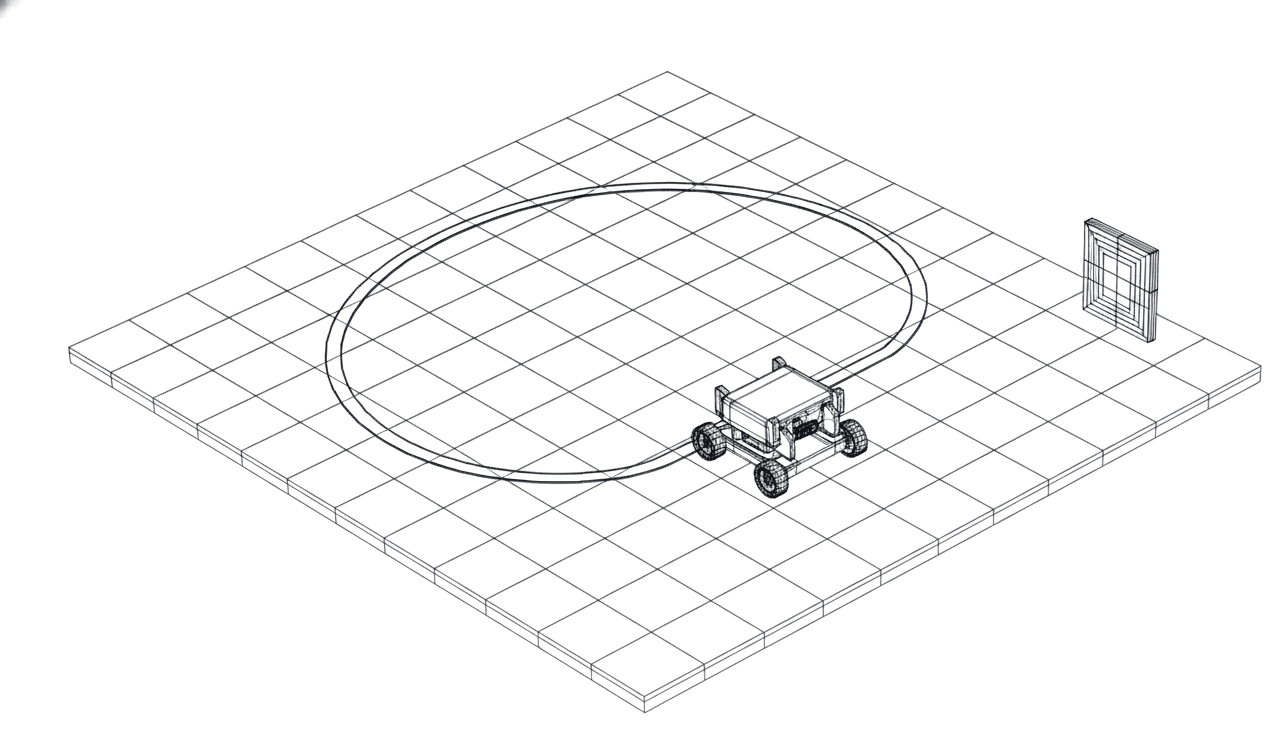
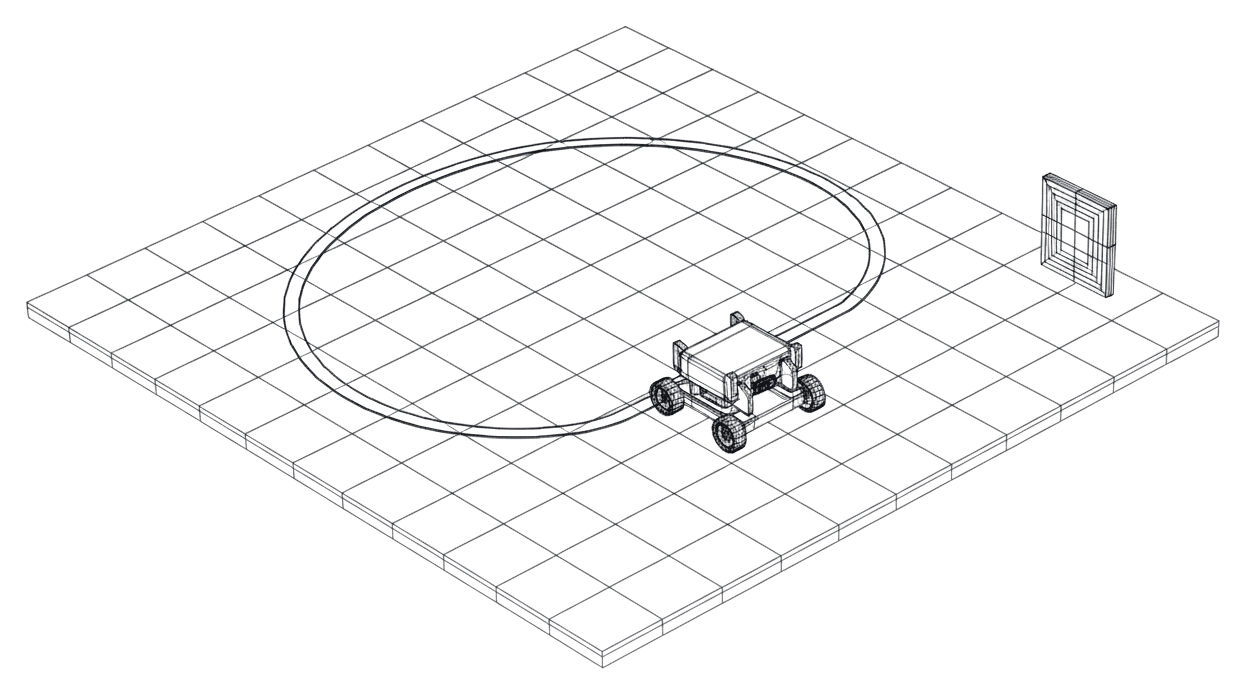
feat: glass wipe on tab change, fit Home/Outreach to the viewport, fix card framing
Card art was off-centre
- The trim measured the bounding box of ANY ink, and both generated renders
  carried stray specks in a corner — so the box was inflated and the real
  subject sat off to one side inside its frame.
- Added connected-component despeckling. First pass used 2% of the largest blob
  and was far too blunt: an exploded drawing is legitimately many small pieces,
  and it deleted the controller's buttons and triggers (937px -> 565px).
  Measured the actual distribution instead — every real element is >=365px and
  there are ~176 specks under 200px — so the floor is an absolute 200px.

GlassSurface tab transition
- A refracting glass pane now sweeps across on every tab change, in the
  direction you moved along the tab bar, and the view slides to match.

Home and Outreach fit the viewport
- New .fitview utility. The first attempt subtracted only the nav and left a
  CONSTANT ~115px overflow at every viewport height — the giveaway that fixed
  chrome was unaccounted for, not that the content was too tall. The sticky nav,
  the footer, and (on Home) the partner strip all sit in flow outside the
  section, so --fit-chrome now subtracts all of them.
- The real blocker was ParticleText: `.particle-text` sets height:100% AND
  min-height:240px. Overriding height alone did nothing, which pinned the two
  wordmark lines at 240px each — 462px of h1. Killing the min-height took it
  to 126px.
[…]

diff --git a/src/sections/Hero.css b/src/sections/Hero.css
@@ -1,4 +1,8 @@
-.hero { padding-top: clamp(2.5rem, 6vh, 5rem); }
+/* Home also carries the partner strip below the hero. */
+.hero { padding-top: 0; --fit-chrome: 232px; }
+/* Everything on Home is sized off the viewport so the page needs no scroll:
+   the wordmark, the plate and the stat rail each take a share of the height. */
+.hero .hero__in { padding-bottom: clamp(0.75rem, 1.6vh, 1.5rem); gap: clamp(0.5rem, 1.2vh, 1.15rem); }
 
 .hero__in {
   display: grid; gap: 1.15rem; justify-items: center; text-align: center;
@@ -11,25 +15,37 @@
 }
 /* Each ParticleText canvas centres its glyphs in a taller box, so the two
    lines sit far apart at their natural height. Pull them together. */
-.hero__h1 { max-width: none; width: 100%; display: grid; gap: 0; margin-block: 0.25rem; }
-.hero__h1 .hero__particles + .hero__particles { margin-top: -1.6rem; }
-.hero__particles {
+.hero__h1 { max-width: none; width: 100%; display: grid; gap: 0; margin-block: 0; }
+/* no negative pull now that the type is sized to its canvas */
+.hero__h1 .hero__particles + .hero__particles { margin-top: 0; }
+/* ParticleText's own `.particle-text` rule sets the height and is loaded after
+   this file, so an equal-specificity selector lost. Scope it under .hero__h1. */
+/* ParticleText sets `height: 100%` AND `min-height: 240px`. Overriding height
+   alone did nothing — the min-height pinned both lines at 240px each (462px
+   total for the h1). The min-height is the rule that actually had to go. */
+.hero__h1 .hero__particles {
   display: block; width: 100%;
-  height: clamp(3rem, 7vw, 6.25rem);
+  height: clamp(2.25rem, min(6vw, 8vh), 4.75rem);
+  min-height: 0;
 }
-.hero__particles canvas { width: 100% !important; height: 100% !important; }
+.hero__particles > *,
+.hero__particles canvas {
+  width: 100% !important;
+  height: 100% !important;
+  display: block;
+}
 .hero__line { display: block; }
 
-.hero__meta { display: grid; justify-items: center; gap: 1.5rem; margin-top: 0.35rem; }
+.hero__meta { display: grid; justify-items: center; gap: clamp(0.75rem, 1.8vh, 1.5rem); margin-top: 0.25rem; }
 
 .hero__ctas { display: flex; flex-wrap: wrap; gap: 0.7rem; justify-content: center; }
 
 /* ── the plate: image-first, full width, generous radius ─────────────── */
 /* capped near the source's native 1100px so it is never upscaled on screen */
-.hero__plate { position: relative; border-radius: var(--r-xl); max-width: 1120px; margin-inline: auto; }
+.hero__plate { position: relative; border-radius: var(--r-xl); max-width: min(1120px, 25vh * 2.17); margin-inline: auto; }
 .hero__ripple, .hero__plate canvas { width: 100%; aspect-ratio: 1100 / 508; display: block; }
 .hero__plate img {
-  width: 100%; aspect-ratio: 1100 / 508; object-fit: cover; object-position: center 42%;
+  width: 100%; aspect-ratio: 1100 / 508; max-height: 42vh; object-fit: cover; object-position: center 42%;
   transition: transform 1200ms var(--ease);
 }
 .hero__plate:hover img { transform: scale(1.02); }
@@ -45,16 +61,20 @@
 
 /* ── stats ───────────────────────────────────────────────────────────── */
 .hero__stats {
+  margin-top: clamp(0.6rem, 1.3vh, 1.4rem);
   display: grid; grid-template-columns: repeat(auto-fit, minmax(min(100%, 10rem), 1fr));
   gap: 1px; margin-top: clamp(1.5rem, 3vw, 2.5rem);
   background: var(--rule);
   border-radius: var(--r-md); overflow: hidden;
   border: 1px solid var(--rule);
 }
-.hero__stat { background: var(--card); padding: 1.15rem 1.35rem; display: grid; gap: 0.3rem; }
+.hero__stat { background: var(--card); padding: clamp(0.55rem, 1.1vh, 0.95rem) 1.35rem; display: grid; gap: 0.2rem; }
 .hero__stat dd {
   font-family: var(--display); font-variation-settings: 'wght' 650;
-  font-size: clamp(1.5rem, 2.4vw, 2rem); color: var(--ink); line-height: 1;
+  font-size: clamp(1.25rem, min(2.4vw, 3vh), 2rem); color: var(--ink); line-height: 1;
 }
 .hero__stat--sm { font-size: clamp(1rem, 1.4vw, 1.15rem) !important; line-height: 1.2 !important; }
 .tab { font-variant-numeric: tabular-nums; }
+
+/* wider measure keeps the lede to two lines, which the viewport budget needs */
+.hero__meta .lede { max-width: 74ch; font-size: clamp(0.95rem, 0.9rem + 0.3vw, 1.0625rem); }

diff --git a/src/App.tsx b/src/App.tsx
@@ -1,10 +1,10 @@
 import { Suspense, lazy, useCallback, useEffect, useState } from 'react';
 import SwarmCursor from '@/components/reactbits/SwarmCursor';
 import Backdrop from '@/components/Backdrop';
+import GlassSurface from '@/components/reactbits/GlassSurface';
 import Nav, { TABS, type TabId } from '@/sections/Nav';
 import Hero from '@/sections/Hero';
 import PartnerStrip from '@/sections/PartnerStrip';
-import Marquee from '@/sections/Marquee';
 import Team from '@/sections/Team';
 import Robot from '@/sections/Robot';
 import Bios from '@/sections/Bios';
@@ -21,6 +21,8 @@ export default function App() {
   const [admin, setAdmin] = useState(false);
   const [tab, setTab] = useState<TabId>('home');
   const [phase, setPhase] = useState<'in' | 'out'>('in');
+  const [dir, setDir] = useState<1 | -1>(1);
+  const [wipe, setWipe] = useState(false);
   /* Heavy pointer effects are desktop-only: a swarm following a finger is
      meaningless on touch and costs a frame budget phones do not have. */
   const [rich, setRich] = useState(false);
@@ -47,6 +49,11 @@ export default function App() {
 
   const go = useCallback((next: TabId) => {
     if (next === tab) { window.scrollTo({ top: 0, behavior: 'smooth' }); return; }
+    const from = TABS.findIndex(t => t.id === tab);
+    const to = TABS.findIndex(t => t.id === next);
+    setDir(to > from ? 1 : -1);
+    setWipe(true);
+    window.setTimeout(() => setWipe(false), 620);
     setPhase('out');
     window.setTimeout(() => {
       setTab(next);
@@ -77,8 +84,22 @@ export default function App() {
       <a className="skip" href="#main">Skip to content</a>
       <Nav tab={tab} onTab={go} onAdmin={() => setAdmin(true)} />
 
-      <main id="main" className={`view view--${phase}`} key={tab}>
-        {tab === 'home' && <><Hero onTab={go} /><PartnerStrip /><Marquee /></>}
+      {/* React Bits GlassSurface as a real refracting wipe across the tab
+          change — it sweeps the direction you moved along the tab bar. */}
+      {wipe && (
+        <div className={`wipe wipe--${dir > 0 ? 'fwd' : 'back'}`} aria-hidden="true">
+          <GlassSurface
+            width="46%" height="100%" borderRadius={0}
+            blur={12} displace={1.6} distortionScale={-190}
+            redOffset={3} greenOffset={11} blueOffset={19}
+            brightness={62} opacity={0.85} backgroundOpacity={0.05} saturation={1.5}
+            className="wipe__pane"
+          />
+        </div>
+      )}
+
+      <main id="main" className={`view view--${phase} view--${dir > 0 ? 'fwd' : 'back'}`} key={tab}>
+        {tab === 'home' && <><Hero onTab={go} /><PartnerStrip /></>}
         {tab === 'team' && <Team />}
         {tab === 'robot' && <Robot />}
         {tab === 'roster' && <Bios />}

diff --git a/src/styles/tokens.css b/src/styles/tokens.css
@@ -223,3 +223,46 @@ button { font: inherit; color: inherit; background: none; border: 0; cursor: poi
 }
 .swarm-layer > * { width: 100%; height: 100%; }
 .swarm-layer canvas { pointer-events: none !important; }
+
+/* =========================================================
+   Tab change — a GlassSurface pane sweeps across, and the
+   view slides the direction you moved along the tab bar.
+   ========================================================= */
+.wipe {
+  position: fixed; inset: 0; z-index: 70;
+  pointer-events: none; overflow: hidden;
+}
+.wipe__pane { position: absolute; top: 0; height: 100%; }
+.wipe--fwd  .wipe__pane { animation: wipe-fwd 620ms cubic-bezier(0.65, 0, 0.35, 1) both; }
+.wipe--back .wipe__pane { animation: wipe-back 620ms cubic-bezier(0.65, 0, 0.35, 1) both; }
+@keyframes wipe-fwd  { from { left: -50%; } to { left: 105%; } }
+@keyframes wipe-back { from { left: 105%; } to { left: -50%; } }
+
+.view--out.view--fwd  { transform: translate3d(-3%, 0, 0); }
+.view--out.view--back { transform: translate3d(3%, 0, 0); }
+.view--in.view--fwd,
+.view--in.view--back { animation: view-slide 460ms var(--ease) both; }
+@keyframes view-slide { from { opacity: 0; transform: translate3d(var(--slide-from, 2%), 0, 0); } }
+.view--in.view--back { --slide-from: -2%; }
+
+@media (prefers-reduced-motion: reduce) {
+  .wipe { display: none; }
+  .view--in.view--fwd, .view--in.view--back { animation: none; }
+  .view--out.view--fwd, .view--out.view--back { transform: none; }
+}
+
+/* =========================================================
+   Fit-to-viewport tabs (Home, Outreach) — no scrolling needed
+   ========================================================= */
+/* --fit-chrome is everything that sits in flow OUTSIDE this section and still
+   consumes viewport: the sticky nav, the footer, and on Home the partner strip.
+   Subtracting only the nav left a constant ~115px overflow at every height. */
+.fitview {
+  --fit-chrome: 172px;
+  min-height: calc(100svh - var(--fit-chrome));
+  display: grid; align-content: center;
+  padding-block: clamp(5.25rem, 6.5vw, 6rem) clamp(1rem, 2vw, 1.75rem);
+}
+@media (max-height: 720px), (max-width: 820px) {
+  .fitview { min-height: 0; align-content: start; }
+}

diff --git a/src/sections/Outreach.css b/src/sections/Outreach.css
@@ -1,13 +1,15 @@
 /* Capped: at full container width the 1000x340 viewBox renders ~620px tall
    and pushes the readout off the fold. */
 .chart {
-  max-width: 68rem;
+  max-width: 62rem;
+  margin-inline: auto;
+  width: 100%;
   border: 1px solid var(--glass-edge);
   border-radius: var(--r-lg);
   background: var(--glass);
   backdrop-filter: blur(18px);
   box-shadow: var(--lift-2);
-  padding: 1.5rem clamp(1.15rem, 2.4vw, 2rem) 1.75rem;
+  padding: clamp(0.9rem, 1.8vh, 1.5rem) clamp(1.15rem, 2.4vw, 2rem) clamp(1rem, 2vh, 1.75rem);
 }
 .chart__cap {
   display: flex; align-items: center; justify-content: space-between;
@@ -20,7 +22,11 @@
 }
 .chart__toggle:hover { color: var(--accent); border-color: var(--accent); }
 
-.chart__plot svg { width: 100%; height: auto; overflow: visible; display: block; }
+.chart__plot svg {
+  width: 100%; height: auto; display: block; overflow: visible;
+  /* cap against the viewport so the whole section fits without scrolling */
+  max-height: clamp(8rem, 21vh, 14rem);
+}
 .chart__plot { padding-block: 0.5rem; }
 .chart__xlab {
   font-family: var(--mono); font-size: 10px; letter-spacing: 0.06em;
@@ -92,3 +98,10 @@
   .chart__area, .chart__mile { opacity: 1; transform: none; }
   .chart__plot.is-drawn * { animation: none !important; }
 }
+
+/* the section owns its vertical rhythm via .fitview */
+.band.fitview .sec-head { margin-bottom: clamp(0.75rem, 1.6vh, 1.4rem); gap: 0.6rem; }
+.band.fitview .outreach__stat { margin-top: clamp(0.5rem, 1.2vh, 1rem); }
+
+/* wider measure = fewer lines = the section fits the viewport */
+.outreach__lede { max-width: 78ch; }

diff --git a/src/sections/Hero.tsx b/src/sections/Hero.tsx
@@ -8,7 +8,7 @@ import './Hero.css';
 
 export default function Hero({ onTab }: { onTab: (t: 'robot' | 'contact') => void }) {
   return (
-    <header className="hero" id="top">
+    <header className="hero fitview" id="top">
       <div className="wrap hero__in">
         <p className="mono hero__eyebrow">
           <span className="hero__dot" aria-hidden="true" />
@@ -23,7 +23,7 @@ export default function Hero({ onTab }: { onTab: (t: 'robot' | 'contact') => voi
             text="SHARP FACE"
             fontFamily="Archivo, sans-serif"
             fontWeight={700}
-            fontSize={112}
+            fontSize="clamp(1.6rem, min(4.4vw, 5.6vh), 3.4rem)"
             color="#f2f4f7"
             highlightColor="#4fe0d8"
             particleSize={1.5}
@@ -41,7 +41,7 @@ export default function Hero({ onTab }: { onTab: (t: 'robot' | 'contact') => voi
             text="ROBOTICS"
             fontFamily="Archivo, sans-serif"
             fontWeight={700}
-            fontSize={112}
+            fontSize="clamp(1.6rem, min(4.4vw, 5.6vh), 3.4rem)"
             color="#4fe0d8"
             highlightColor="#a9f5f0"
             particleSize={1.5}

diff --git a/src/sections/Outreach.tsx b/src/sections/Outreach.tsx
@@ -56,12 +56,12 @@ export default function Outreach() {
   const cur = active === null ? null : outreach[active];
 
   return (
-    <section className="band" id="outreach">
+    <section className="band fitview" id="outreach">
       <div className="wrap">
         <header className="sec-head">
           <div className="sec-index"><b>05</b><span>Outreach</span></div>
           <h2 className="d2">Where the season actually goes</h2>
-          <p className="lede">
+          <p className="lede outreach__lede">
             A competition season is not one weekend. This is the rhythm of our outreach across
             a year — recruiting, build, league play, then the community work that carries into summer.
           </p>

diff --git a/src/sections/PartnerStrip.css b/src/sections/PartnerStrip.css
@@ -3,7 +3,7 @@
   background: var(--glass);
   backdrop-filter: blur(14px);
 }
-.strip__in { display: flex; align-items: center; gap: 2rem; padding-block: 1.35rem; }
+.strip__in { display: flex; align-items: center; gap: 2rem; padding-block: clamp(0.6rem, 1.3vh, 1.2rem); }
 .strip__label { flex: none; color: var(--ink-4); }
 
 .strip__mask {

diff --git a/src/sections/Sponsors.css b/src/sections/Sponsors.css
@@ -72,6 +72,7 @@
 .sp-loop img { background: #fff; padding: 5px 8px; border-radius: 1px; }
 
 .become {
+  margin-top: clamp(2.5rem, 5vw, 4.5rem);
   display: flex; flex-wrap: wrap; align-items: center; justify-content: space-between;
   gap: 1.75rem;
   padding: clamp(1.75rem, 4vw, 2.75rem);

diff --git a/scripts/ingest-cad.py b/scripts/ingest-cad.py
@@ -74,6 +74,46 @@ for name in NAMES:
                     a = min(255, int(((lum - floor) / span) * 255 * 1.35))
                     op[x, y] = (*tint, a)
         mask = out.split()[3].point(lambda v: 255 if v > 48 else 0)
+
+        # Despeckle before measuring. A single stray dot in a corner (the
+        # generated renders both had one) inflates the bounding box and shoves
+        # the real subject off-centre inside its frame. Keep only blobs that are
+        # a meaningful fraction of the largest one.
+        mw, mh = mask.size
+        mp = mask.load()
+        seen = bytearray(mw * mh)
+        blobs = []
+        for sy in range(0, mh):
+            for sx in range(0, mw):
+                if mp[sx, sy] == 0 or seen[sy * mw + sx]:
+                    continue
+                stack, cells = [(sx, sy)], []
+                seen[sy * mw + sx] = 1
+                while stack:
+                    cx, cy = stack.pop()
+                    cells.append((cx, cy))
+                    for nx, ny in ((cx+1,cy),(cx-1,cy),(cx,cy+1),(cx,cy-1)):
+                        if 0 <= nx < mw and 0 <= ny < mh and not seen[ny*mw+nx] and mp[nx,ny]:
+                            seen[ny*mw+nx] = 1
+                            stack.append((nx, ny))
+                blobs.append(cells)
+        # An ABSOLUTE floor, not a fraction of the largest blob: an exploded
+        # drawing is legitimately made of many small separate pieces (buttons,
+        # triggers, PCB pads), and a proportional threshold deleted them —
+        # the controller lost its exploded parts and shrank to 565px.
+        # Measured on these renders: every real element is >=365px, and there
+        # are ~176 sub-200px specks. 200 keeps all the exploded parts and kills
+        # the dots that were inflating the box and shoving art off-centre.
+        MIN_BLOB = 200
+        dropped = 0
+        for b in blobs:
+            if len(b) < MIN_BLOB:
+                dropped += 1
+                for cx, cy in b:
+                    mp[cx, cy] = 0
+        if dropped:
+            print(f'    despeckled {dropped} stray dot(s) under {MIN_BLOB}px')
+
         bbox = mask.getbbox()
         if bbox:
             x0, y0, x1, y1 = bbox
